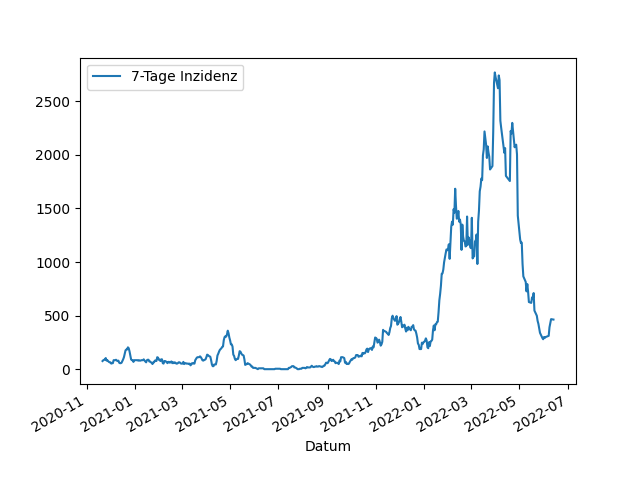
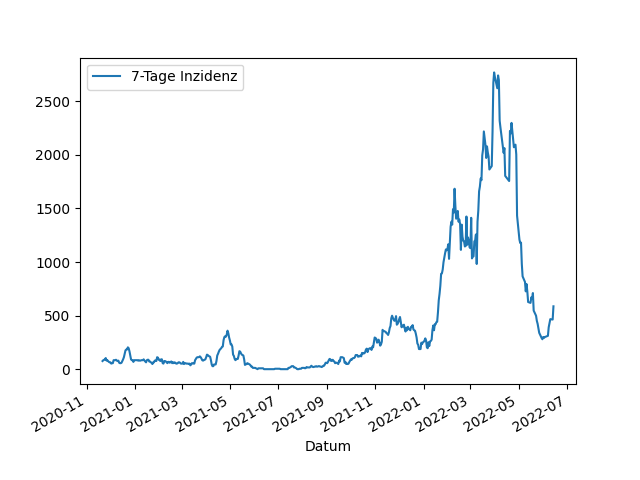
Update images

diff --git a/_includes/aktuelle_inzidenz.md b/_includes/aktuelle_inzidenz.md
@@ -1,1 +1,1 @@
-463,0
+586,8
